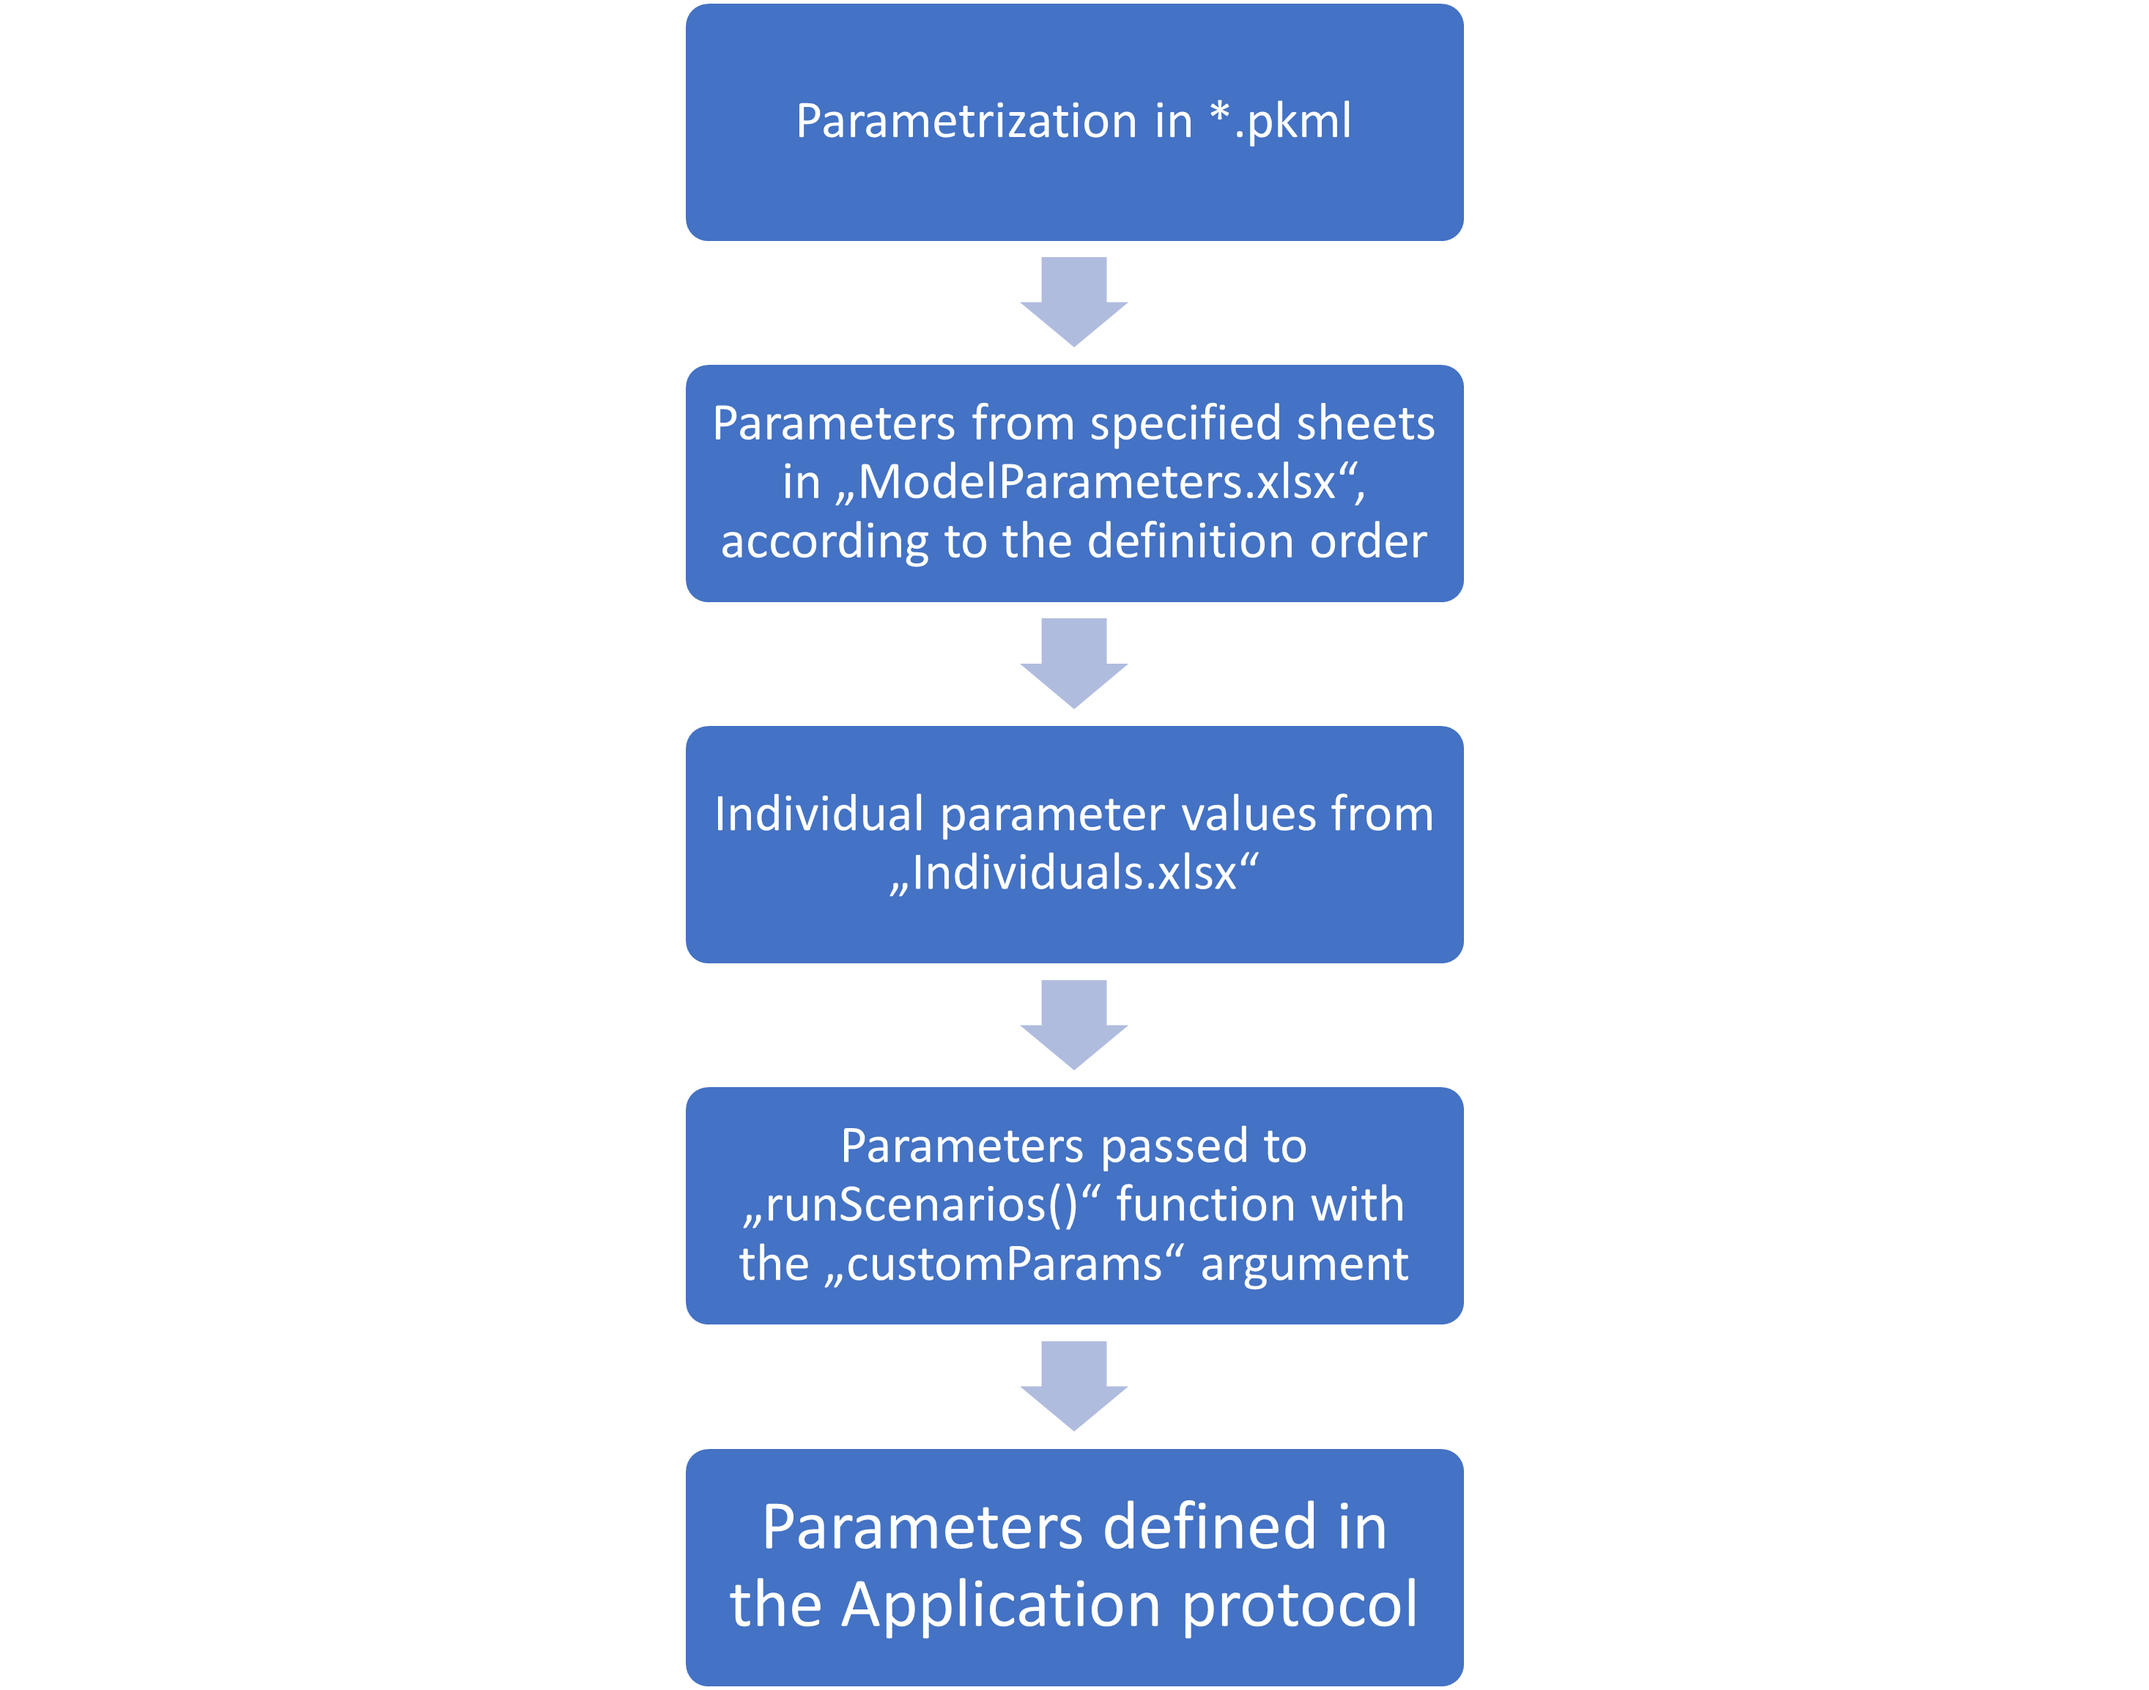
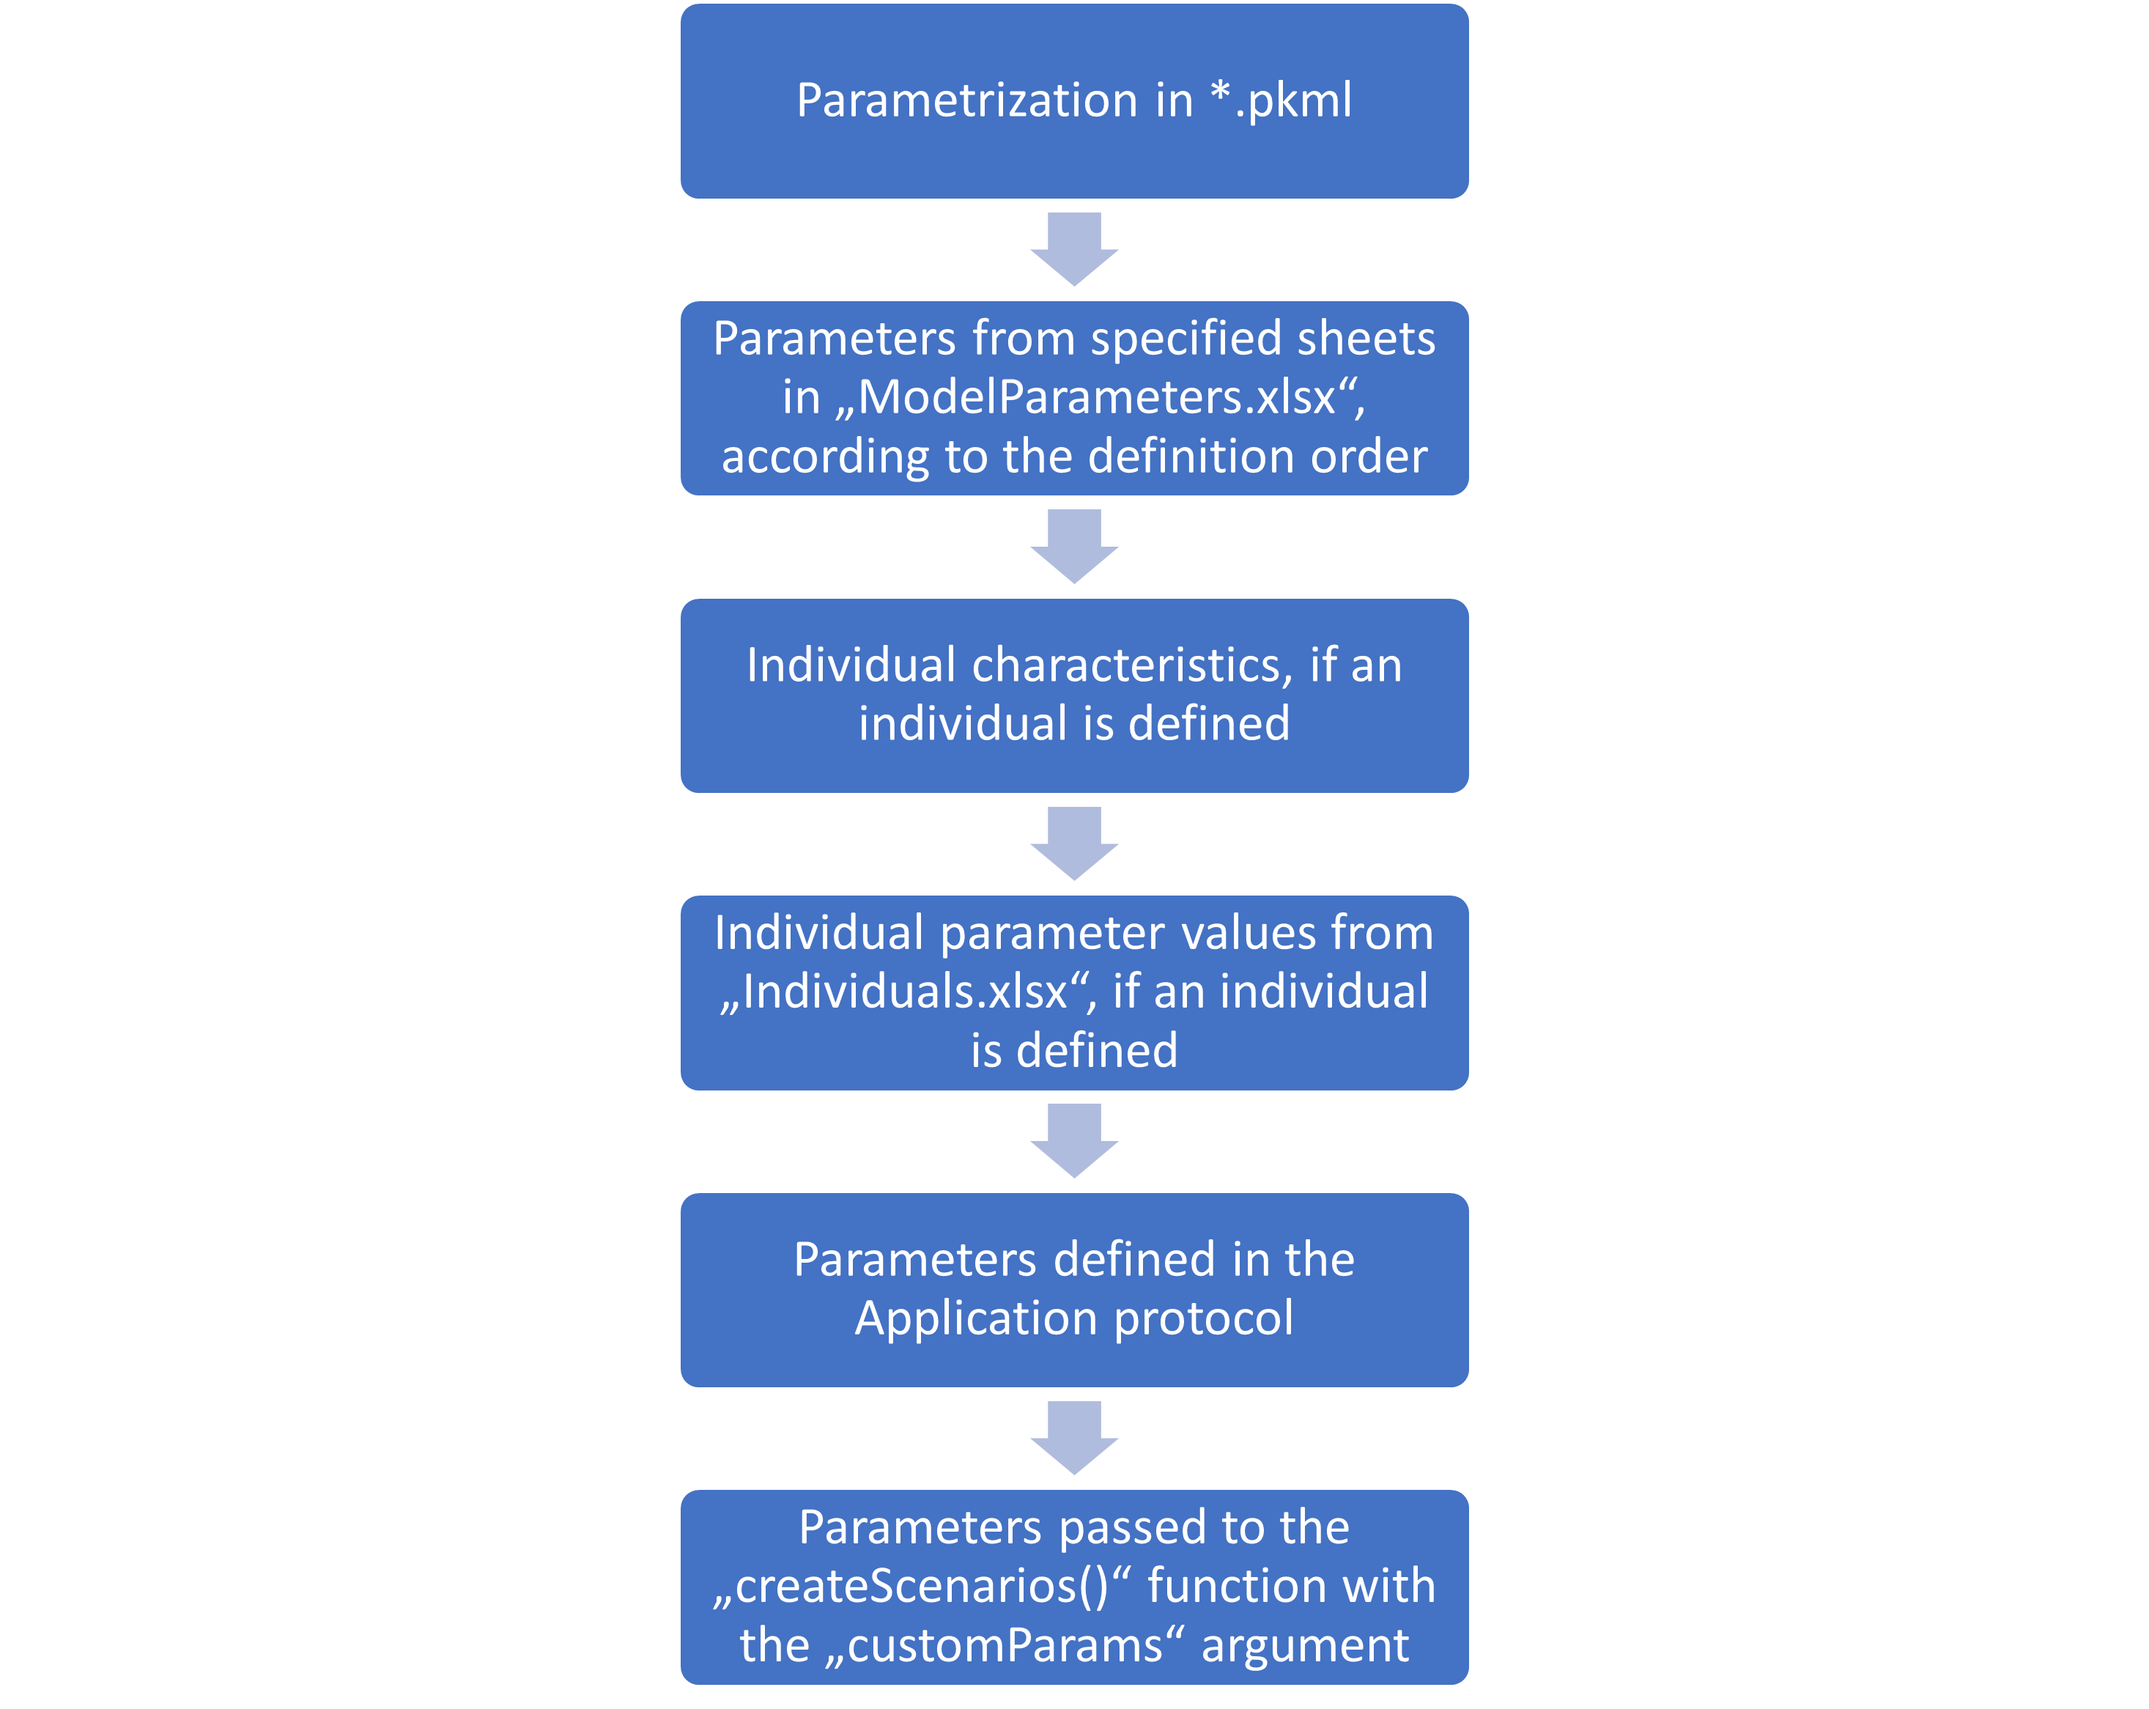
- User-defined parameters passed to the `createScenarios()` or `Scenario$new()` in the `customParams` argument are applied last. Up to this version, they were overwritten by the administration protocol (\#817)
- Update vignette
- Update workflow scheme source (pptx)
- Remove not used figures from vignettes

Changed region(s): [[0.3103, 0.0312, 0.6826, 0.9987]]

diff --git a/NEWS.md b/NEWS.md
@@ -1,5 +1,11 @@
 # esqlabsR (development version)
 
+## Major changes
+
+- User-defined parameters passed to the `createScenarios()` or `Scenario$new()` 
+in the `customParams` argument are applied last. Up to this version, they 
+were overwritten by the administration protocol (\#817)
+
 ## Minor improvements and bug fixes
 
 - `readScenarioConfigurationFromExcel()` ignores rows where `Scenario_name` is empty.
